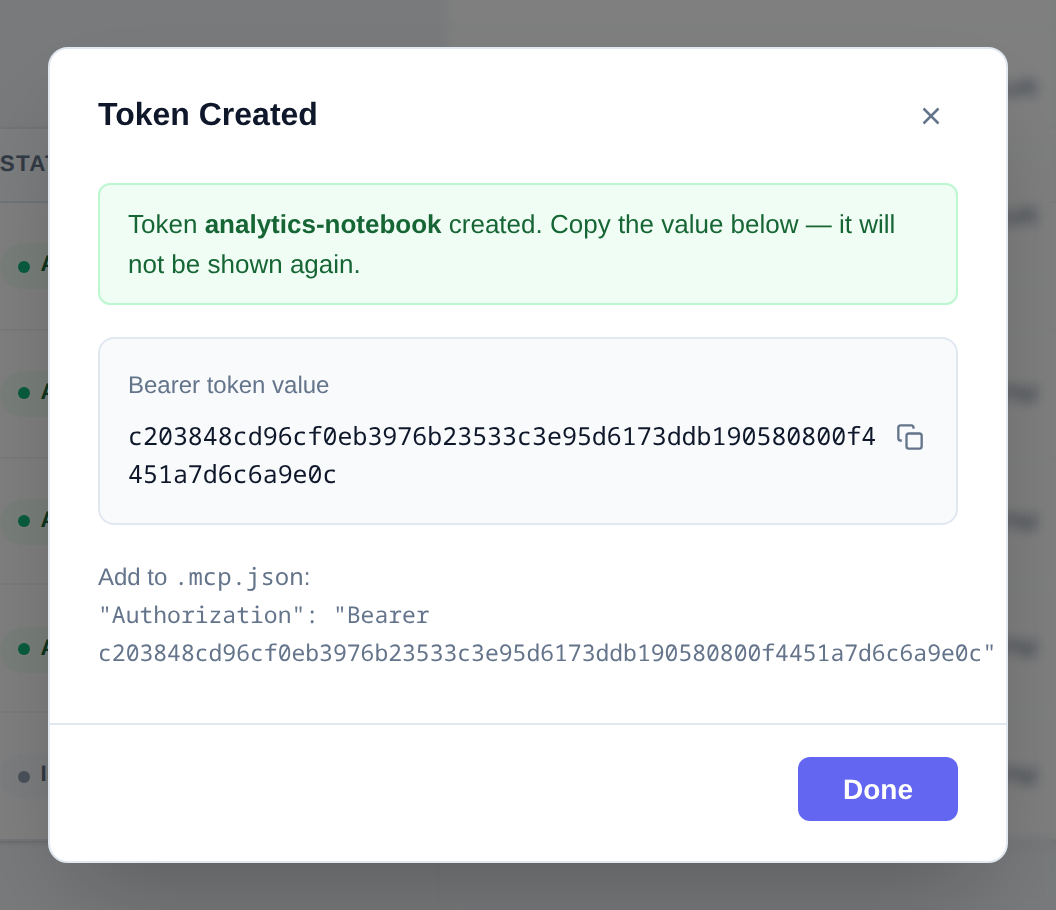
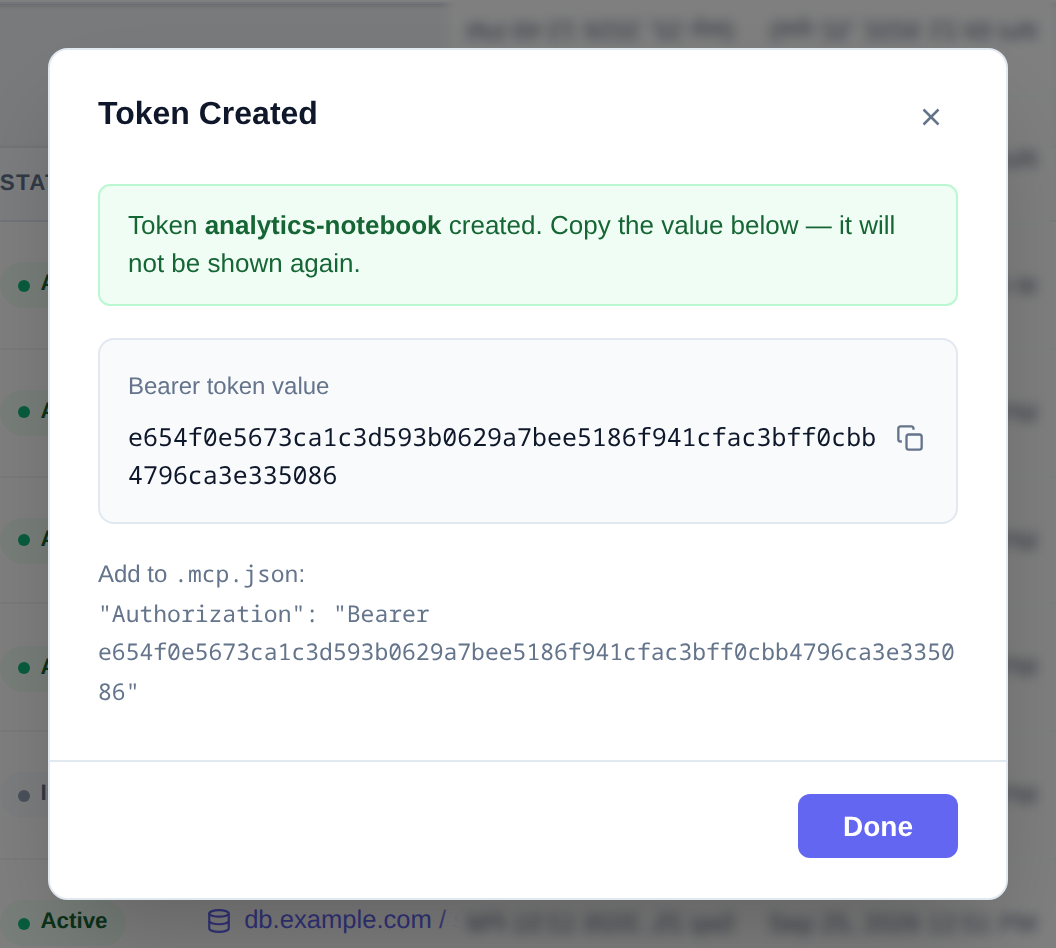
fix(admin-ui): wrap long token in the .mcp.json hint
The Authorization example in the Token Created dialog is a single unbreakable
string and overflowed the modal. Move the inline styles to a .reveal-hint
class with overflow-wrap: anywhere and refresh the README screenshot.

diff --git a/admin.html b/admin.html
@@ -463,6 +463,9 @@
       margin-bottom: 1rem;
     }
     .token-reveal p { font-size: 0.75rem; color: var(--text-muted); margin-bottom: 0.5rem; }
+    .reveal-hint { font-size: .75rem; color: var(--text-muted); line-height: 1.6; }
+    /* long bearer tokens have no break opportunities — let them wrap inside the modal */
+    .reveal-hint code { font-size: .72rem; overflow-wrap: anywhere; }
 
     .token-value {
       display: flex; align-items: flex-start; gap: 0.5rem;
@@ -929,9 +932,9 @@ function showTokenReveal(created) {
         </button>
       </div>
     </div>
-    <p style="font-size:.75rem;color:var(--text-muted);line-height:1.6">
+    <p class="reveal-hint">
       Add to <code>.mcp.json</code>:<br>
-      <code style="font-size:.72rem">"Authorization": "Bearer ${x(created.token)}"</code>
+      <code>"Authorization": "Bearer ${x(created.token)}"</code>
     </p>`;
   showModal('Token Created', body, [
     { label: 'Done', cls: 'btn-submit', fn: 'closeModal()' },

diff --git a/CHANGELOG.md b/CHANGELOG.md
@@ -6,6 +6,12 @@ and this project adheres to [Semantic Versioning](https://semver.org/spec/v2.0.0
 
 ## [Unreleased]
 
+### Fixed
+- Admin UI: the `.mcp.json` hint in the *Token Created* dialog overflowed the dialog, because the long bearer token could not wrap.
+
+### Added
+- README: screenshots of the admin UI and of the log output (`docs/images/`).
+
 ### Changed
 - Updated `pg` to `^8.23.0` and dev dependencies (`vitest` / `@vitest/coverage-v8` `^5.0.1`, `globals`); lockfile refreshed with `npm audit fix` (0 vulnerabilities).
 
